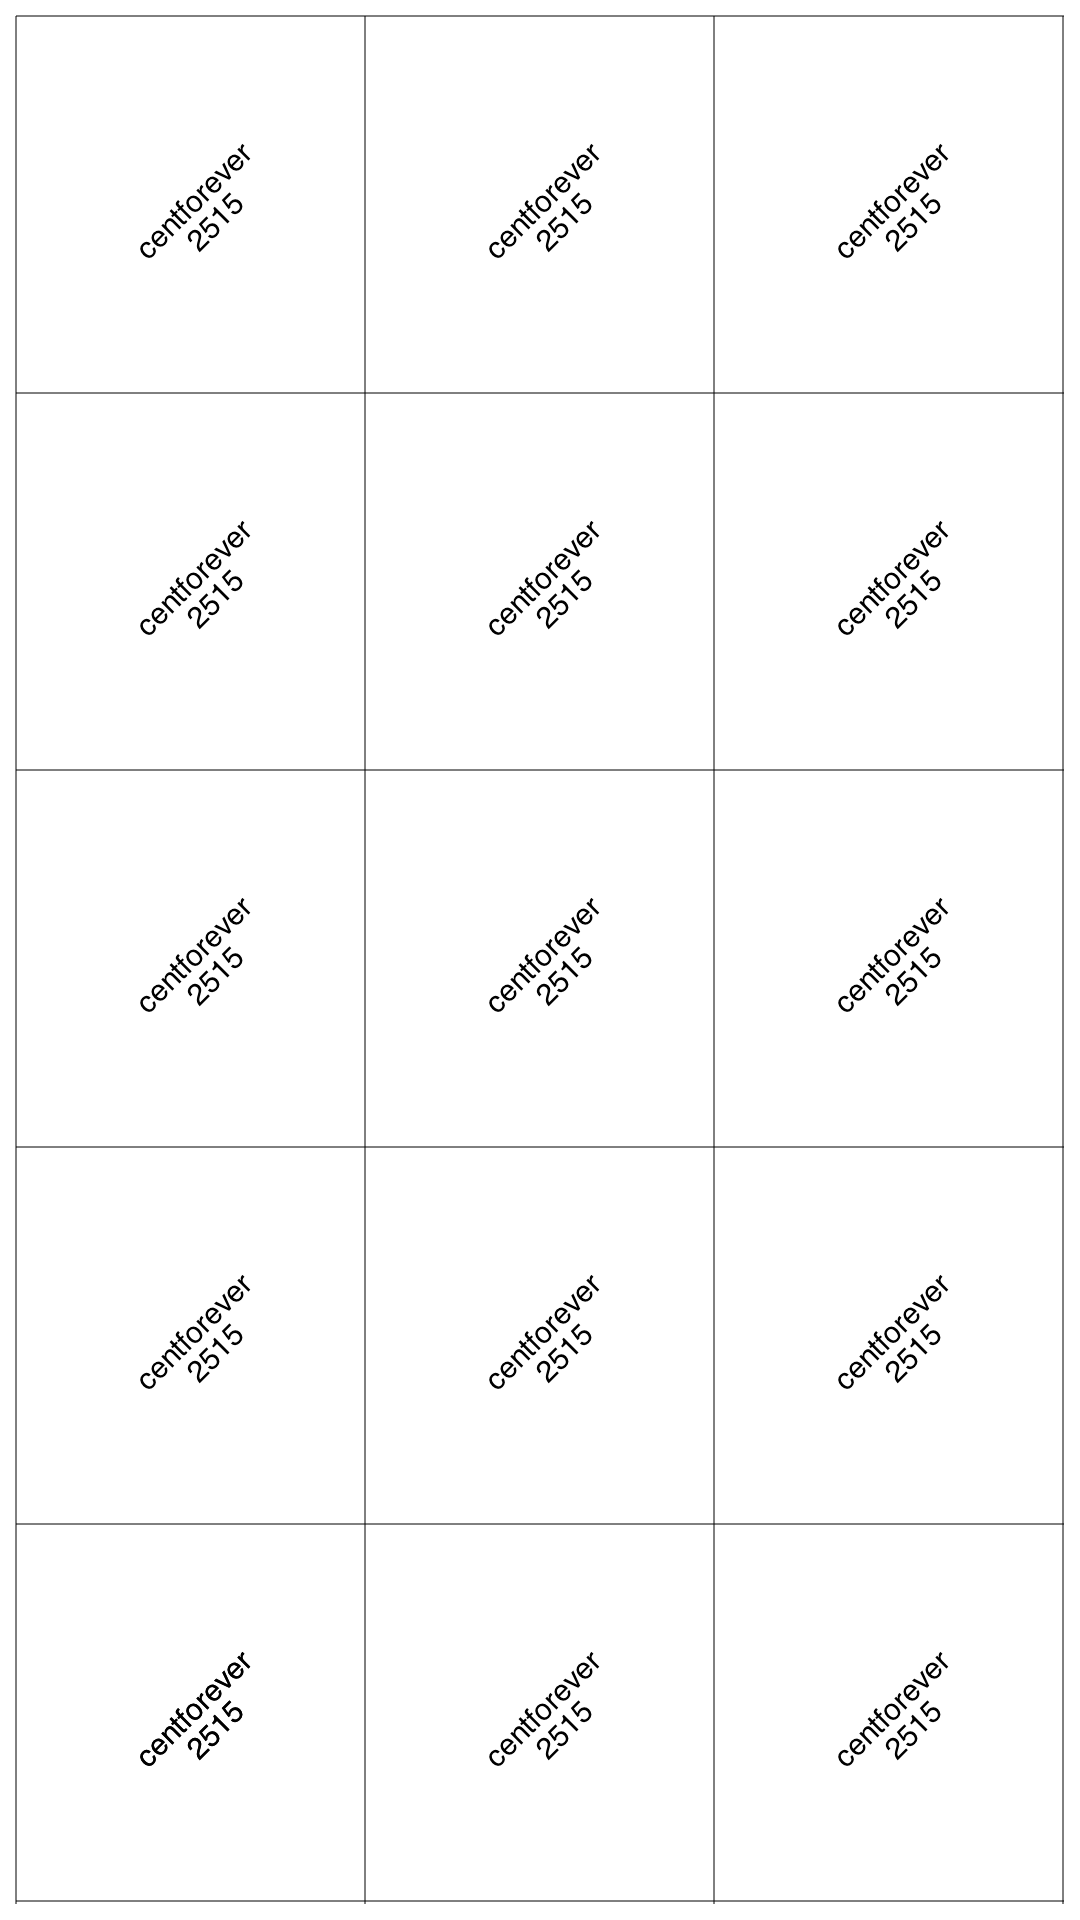
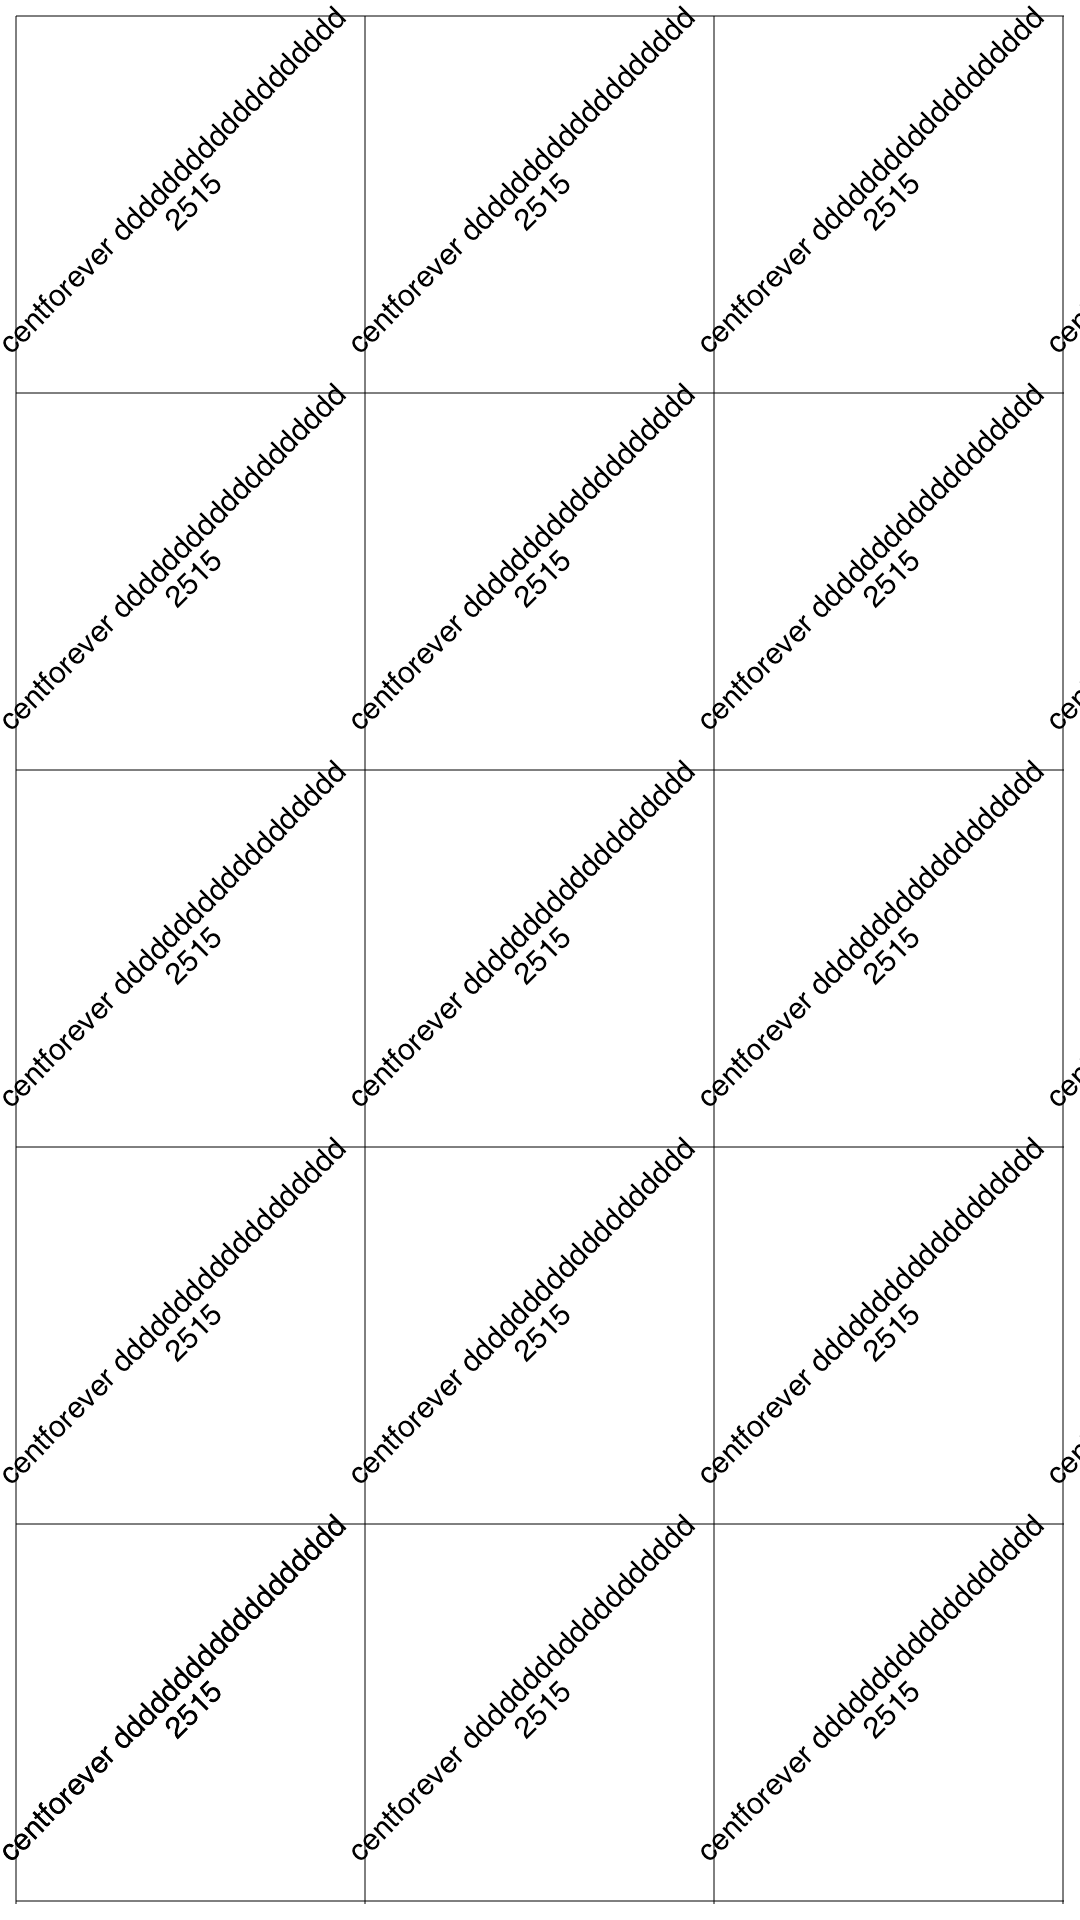
水印

diff --git a/src/skia/watermark/single_line_water_mark.cpp b/src/skia/watermark/single_line_water_mark.cpp
@@ -208,7 +208,7 @@ std::string drawMultilinesWaterMark(SkCanvas *canvas) {
 
     // 文本
     std::vector<std::string> labels;
-    labels.push_back("centforever");
+    labels.push_back("centforever ddddddddddddddddddd");
     labels.push_back("2515");
 
     int column = 3; //默认3列
@@ -250,6 +250,27 @@ std::string drawMultilinesWaterMark(SkCanvas *canvas) {
         canvas->drawLine(startX, startY, width - startW, startY, paint);//(x[min],y)-->(x[max],y)
     }
 
+    std::vector<std::string> subLabels;
+    auto isCutOff = false;
+    for (int k = 0; k < labels.size(); k++) {
+        std::string text = labels[k];
+        // 文本长度
+        size_t length = strlen(text.c_str());
+        // 文字宽
+        float textWidth = font.measureText(text.c_str(), length, SkTextEncoding::kUTF8);
+        std::cout << "textWidth: " << textWidth << std::endl;
+        std::cout << "percentWH: " << percentWH << std::endl;
+        while (textWidth > percentWH) {
+            isCutOff = true;
+            text = text.substr(0,text.length() - 1);
+            textWidth = font.measureText(text.c_str(), length, SkTextEncoding::kUTF8);
+        }
+        if (isCutOff) {
+            subLabels.push_back(text);
+            std::cout << "subLabels text: " << text << std::endl;
+        }
+    }
+
     // 文字baseline在y轴方向的位置
     SkFontMetrics fontMetrics{};
     font.getMetrics(&fontMetrics);
@@ -272,8 +293,8 @@ std::string drawMultilinesWaterMark(SkCanvas *canvas) {
                 canvas->drawSimpleText(text.c_str(),
                                        length,
                                        SkTextEncoding::kUTF8,
-                                       (percentWH - textWidth / 2 - percentWH / 2) + percentWH / 4,
-                                       (fontHeight * k - percentWH / 2) + percentWH / 2,
+                                       (percentWH / 2 - textWidth / 2) + percentWH / 4,
+                                       fontHeight * k - fontHeight,
                                        font,
                                        paint);
 
